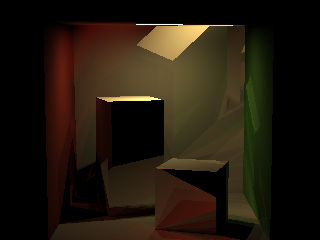
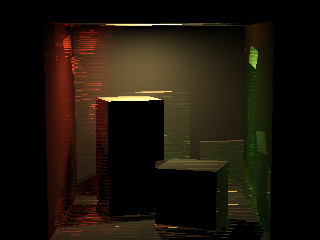
Add SobolRand algorithm

diff --git a/WorkingProject/main.cpp b/WorkingProject/main.cpp
@@ -22,17 +22,17 @@ using namespace glm;
 
 const float EPS = 1e-5f;
 
-const int MAX_PATHS = 1000; // 32
-const int MAX_BOUNCE = 100; // 4
-const int SEED = 133;
+const int MAX_PATHS = 32; // 32
+const int MAX_BOUNCE = 4; // 4
+const int SEED = 0;
 
 const uint32_t primeNumbers[32] = {2, 3, 5, 7, 11, 13, 17, 19, 23, 29, 31, 37, 41, 43, 47, 53, 59, 61, 67, 71, 73, 79,
-                                    83, 89, 97, 101, 103, 107, 109, 113, 127, 131};
+                                   83, 89, 97, 101, 103, 107, 109, 113, 127, 131};
 
 enum random_generator {
-    Default, LinearCongruential, MersenneTwister, SubtractWithCarry, ShuffleOrder
+    Default, LinearCongruential, MersenneTwister, SubtractWithCarry, ShuffleOrder, Halton, Sobol
 };
-random_generator random_generator_type = LinearCongruential;
+random_generator random_generator_type = Sobol;
 
 enum struct SampleDimension : uint32_t {
     ePixelX,
@@ -74,21 +74,41 @@ float HaltonRand(uint32_t index, const uint32_t base) {
     return result;
 }
 
+float SobolRandom(uint32_t& prev_x, uint32_t &cur_index) {
+
+    ++cur_index;
+
+    uint32_t c_now = 1;
+    unsigned value = cur_index;
+    while (value & 1) {
+        value >>= 1;
+        ++c_now;
+    }
+
+    prev_x = prev_x ^ (1 << (32 - c_now));
+    return (float) prev_x / pow(2, 32);
+}
+
 template<SampleDimension Dim>
 float random(SamplerState &state) {
-    const uint32_t dimension = uint32_t(Dim) + state.depth * uint32_t(SampleDimension::eNUM_DIMENSIONS);
-    const uint32_t base = primeNumbers[dimension & 31u];
-    if (HaltonRand(state.seed + state.sampleIdx, base) > 1 || HaltonRand(state.seed + state.sampleIdx, base) < 0) {
-        std::cerr << "\n\nERROR\n\n";
-        return 0;
+    if (random_generator_type == Halton) {
+        const uint32_t dimension = uint32_t(Dim) + state.depth * uint32_t(SampleDimension::eNUM_DIMENSIONS);
+        const uint32_t base = primeNumbers[dimension & 31u];
+        ++state.depth;
+        if (HaltonRand(state.seed + state.sampleIdx, base) > 1 || HaltonRand(state.seed + state.sampleIdx, base) < 0) {
+            std::cerr << "\n\nERROR\n\n";
+            return 0;
+        }
+        return HaltonRand(state.seed + state.sampleIdx, base); // could be random from std
+    } else if (random_generator_type == Sobol) {
+        return SobolRandom(state.seed, state.depth);
     }
-    return HaltonRand(state.seed + state.sampleIdx, base); // could be random from std
 
-//    static std::linear_congruential_engine<uint32_t, 48271, uint32_t(Dim), 2147483647> generator(state.seed + state.sampleIdx + state.depth * MAX_PATHS);
-//    static std::uniform_real_distribution<float> distribution(0.0, 1.0);
-//    ++state.depth;
-//
-//    return distribution(generator);
+    static std::linear_congruential_engine<uint32_t, 48271, uint32_t(Dim), 2147483647> generator(state.seed + state.sampleIdx + state.depth * MAX_PATHS);
+    static std::uniform_real_distribution<float> distribution(0.0, 1.0);
+    ++state.depth;
+
+    return distribution(generator);
 }
 
 struct Ray {
@@ -680,7 +700,7 @@ int main() {
         pixels[h * (width * 4) + (w * 4) + 2] = std::min(255, std::max(0, b));
         pixels[h * (width * 4) + (w * 4) + 3] = 255;
     }
-    std::string outputFileName = "../ResultsWithNewInterface/Halton/";
+    std::string outputFileName = "../ResultsWithNewInterface/Sobol/";
     outputFileName += std::to_string(MAX_PATHS) + '_';
     outputFileName += std::to_string(MAX_BOUNCE) + ".png";
     stbi_write_png(outputFileName.c_str(), width, height, 4, pixels.data(), 0);
